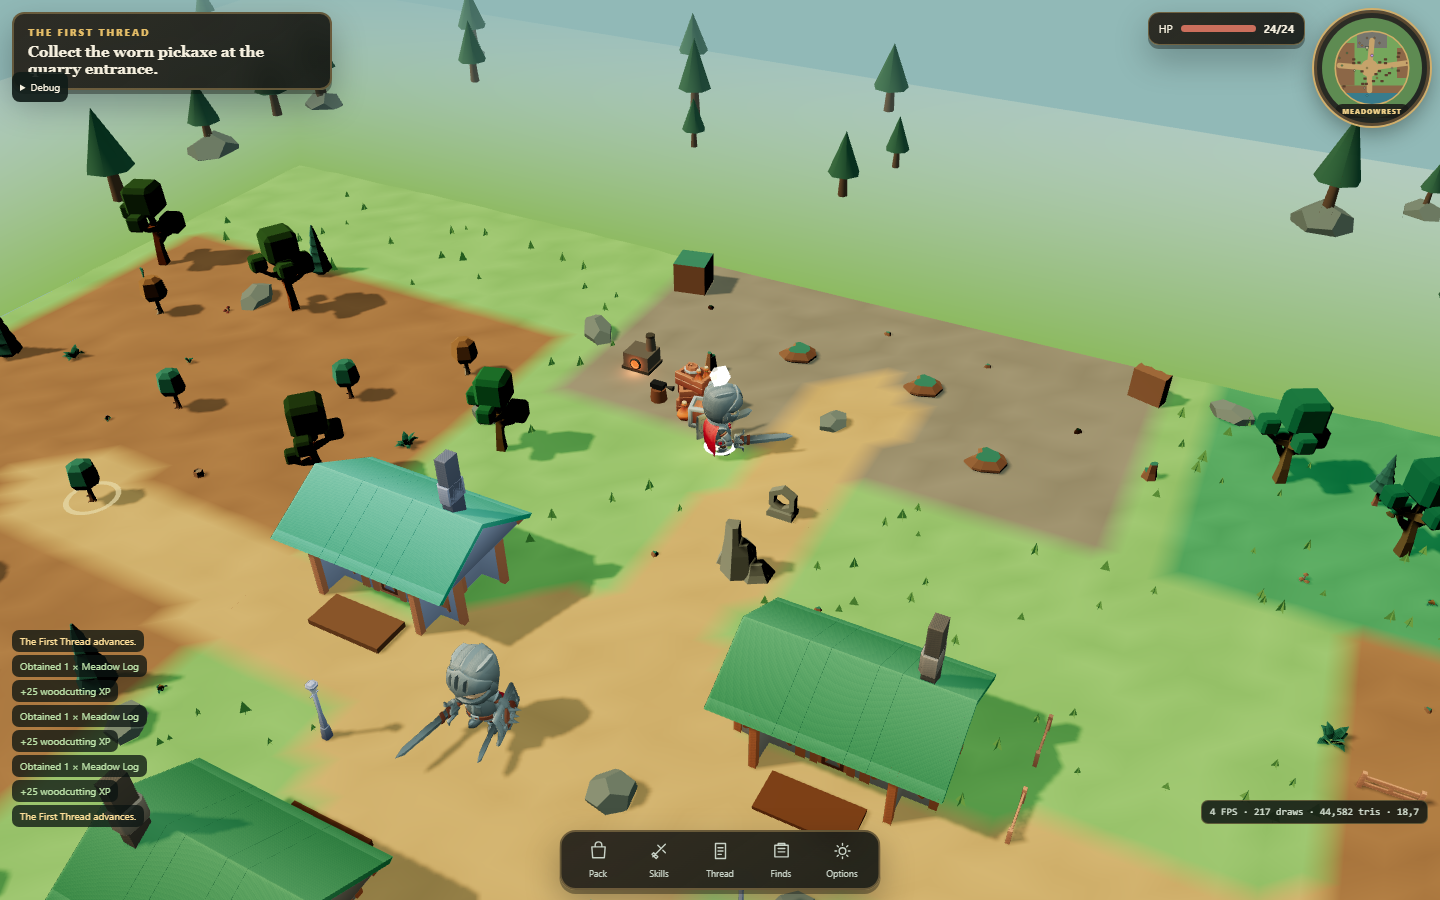
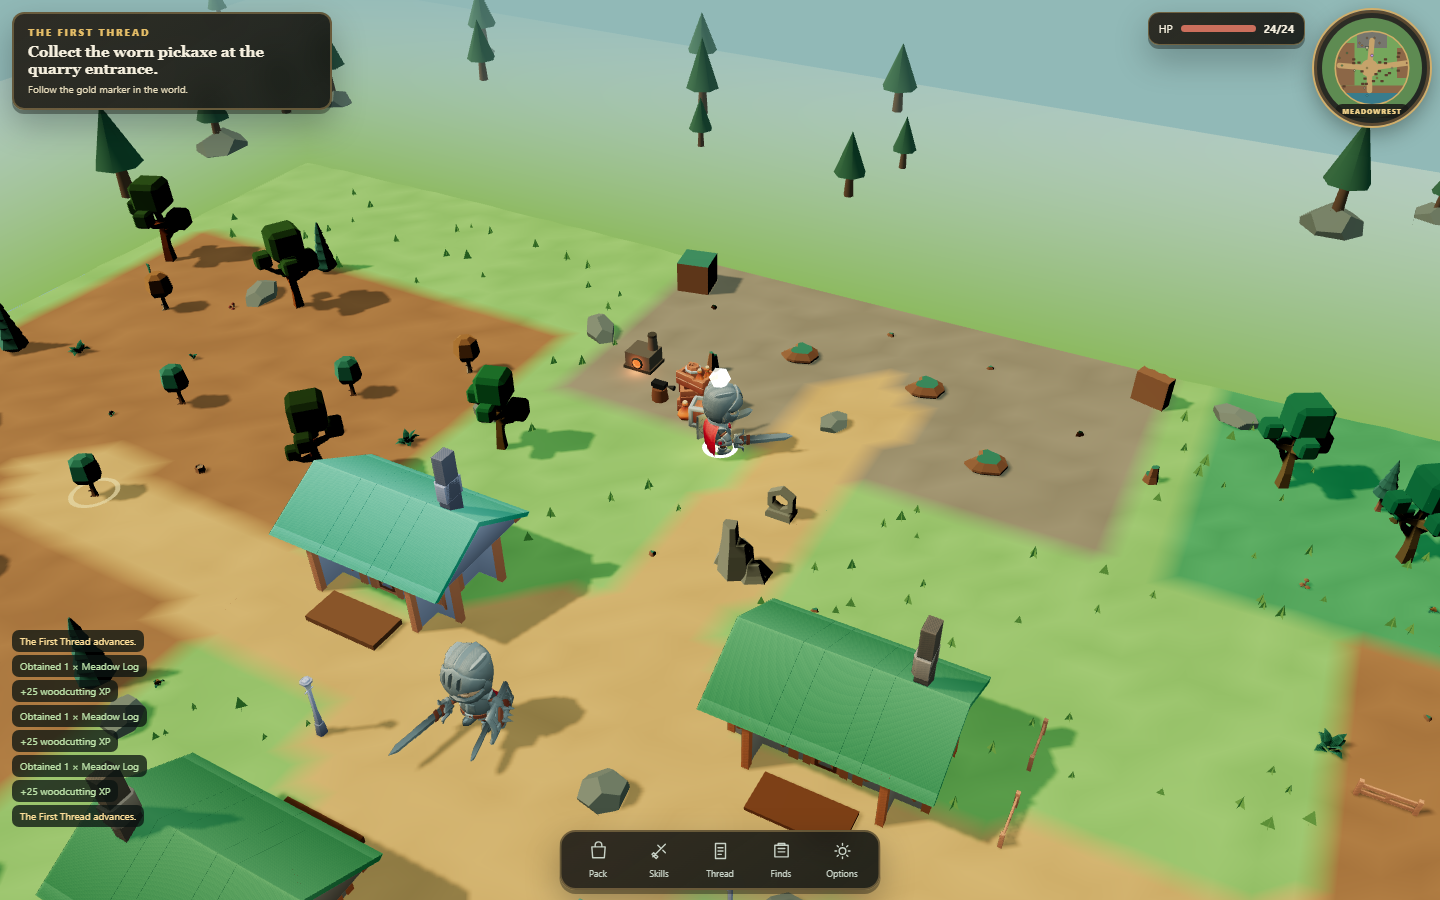
Guide every physical tutorial objective

diff --git a/apps/game/tests/tutorial-guidance.spec.ts b/apps/game/tests/tutorial-guidance.spec.ts
@@ -57,7 +57,7 @@ test.describe("Tutorial guidance — starter tool discoverability", () => {
     const isDesktop = testInfo.project.name === "desktop";
     const viewSuffix = isDesktop ? "desktop" : "landscape";
 
-    await page.goto("/?e2e=1&debug=1");
+    await page.goto("/?e2e=1");
     await page.getByRole("button", { name: "Enter Meadowrest" }).click();
     await expect(page.getByTestId("game-world")).toHaveAttribute("data-ready", "true", { timeout: 35_000 });
     await page.waitForTimeout(400);
@@ -77,20 +77,22 @@ test.describe("Tutorial guidance — starter tool discoverability", () => {
 
     await activate(page, "ground_worn_hatchet", /Open your pack and equip the worn hatchet/i);
 
-    // Step 3 (equip_hatchet, targetId: null — no single physical target).
-    // The beacon must correctly show nothing here rather than a stale or
-    // incorrect marker.
+    // Step 3 is a UI action rather than a world target. The beacon clears,
+    // while the objective itself provides a direct, working Pack action.
     mark = await beacon(page);
     expect(mark).toEqual({ visible: false, targetId: null });
+    await expect(page.locator(".objective")).toContainText(/Open Pack below/i);
 
-    await page.getByRole("button", { name: "Pack" }).click();
+    await page.getByRole("button", { name: "Open Pack" }).click();
     await page.locator("article").filter({ hasText: "Worn Hatchet" }).getByRole("button", { name: "Equip" }).click();
     await expect(page.getByText(/Chop three Meadow Logs/i)).toBeVisible();
     await page.getByRole("button", { name: "Close panel" }).click();
 
-    // Step 4 (gather_logs, targetId: null — any of three oak nodes qualify).
+    // Step 4 accepts any oak, but guidanceTargetId deliberately chooses one
+    // representative nearby oak so the player is never left without a lead.
     mark = await beacon(page);
-    expect(mark).toEqual({ visible: false, targetId: null });
+    expect(mark).toEqual({ visible: true, targetId: "oak_west_1" });
+    await expect(page.locator(".objective")).toContainText(/gold marker to the western oaks/i);
 
     await activate(page, "oak_west_1", /Chop three Meadow Logs|Collect the worn pickaxe/i);
     // meadowrest_oak always succeeds at actionDurationMs 2800 with a 5500ms
@@ -126,5 +128,6 @@ test.describe("Tutorial guidance — starter tool discoverability", () => {
     // Step 6 (equip_pickaxe, targetId: null again) — beacon correctly clears.
     mark = await beacon(page);
     expect(mark).toEqual({ visible: false, targetId: null });
+    await expect(page.getByRole("button", { name: "Open Pack" })).toBeVisible();
   });
 });

diff --git a/apps/game/src/world/GameWorld.tsx b/apps/game/src/world/GameWorld.tsx
@@ -391,9 +391,10 @@ export function GameWorld() {
         objectiveBeacon: () => {
           const save = useGameStore.getState().save;
           const step = save ? currentObjectiveStep(save, CONTENT) : null;
+          const targetId = step?.guidanceTargetId ?? step?.targetId ?? null;
           return {
             visible: objectiveBeaconGroup.visible,
-            targetId: step?.targetId ?? null,
+            targetId,
           };
         },
         equip: (itemId: string) => useGameStore.getState().equip(itemId),
@@ -526,12 +527,15 @@ export function GameWorld() {
         targetHalo.visible = false;
       }
       // Always-on guidance: highlight the CURRENT quest step's physical
-      // target, independent of anything the player has clicked. Steps
-      // without a single specific target (targetId: null, e.g. "gather 3
-      // logs from any tree") have nothing to beacon and are left alone.
+      // target, independent of anything the player has clicked. A quest may
+      // keep targetId null when any matching resource counts while supplying
+      // a representative guidanceTargetId solely for navigation. This also
+      // bridges semantic enemy IDs (used by quest events) to their physical
+      // world interactable IDs without changing quest-completion logic.
       const objectiveStep = save ? currentObjectiveStep(save, CONTENT) : null;
-      const objectiveTarget = objectiveStep?.targetId
-        ? zone.interactables.find((target) => target.id === objectiveStep.targetId)
+      const objectiveTargetId = objectiveStep?.guidanceTargetId ?? objectiveStep?.targetId;
+      const objectiveTarget = objectiveTargetId
+        ? zone.interactables.find((target) => target.id === objectiveTargetId)
         : undefined;
       if (objectiveTarget && save && targetAvailable(objectiveTarget, save)) {
         objectiveBeaconGroup.position.copy(world(objectiveTarget));

diff --git a/apps/game/src/components/Hud.tsx b/apps/game/src/components/Hud.tsx
@@ -35,6 +35,16 @@ export function Hud() {
   const activeProgress = activeEntry?.[1] ?? null;
   const activeQuestDef = activeQuestId ? CONTENT.quests[activeQuestId] : null;
   const activeStep = activeQuestDef && activeProgress ? activeQuestDef.steps[activeProgress.stepIndex] : null;
+  const guidanceTargetId = activeStep?.guidanceTargetId ?? activeStep?.targetId ?? null;
+  const hasWorldGuidance = guidanceTargetId !== null && Object.values(CONTENT.zones)
+    .some((zone) => zone.interactables.some((target) => target.id === guidanceTargetId));
+  const guidanceText = activeStep?.guidanceText
+    ?? (hasWorldGuidance ? "Follow the gold marker in the world." : null);
+  const guidancePanel = activeStep?.kind === "equip"
+    ? { id: "inventory" as const, label: "Open Pack" }
+    : activeStep?.kind === "attune"
+      ? { id: "skills" as const, label: "Open Skills" }
+      : null;
   const objectiveText = activeStep
     ? activeStep.kind === "attune"
       ? `${activeStep.objective} ${attunedSkills} of ${ATTUNEMENT_SKILL_COUNT} attuned.`
@@ -56,6 +66,10 @@ export function Hud() {
       <strong>{objectiveText}</strong>
       {activeStep && activeStep.kind !== "attune" && activeStep.count > 1 &&
         <small>{activeProgress?.stepProgress ?? 0} / {activeStep.count}</small>}
+      {guidanceText && <small className="guide-hint">{guidanceText}</small>}
+      {guidancePanel && <button className="objective-action" onClick={() => store.setPanel(guidancePanel.id)}>
+        {guidancePanel.label}
+      </button>}
     </section>
     <section className="vitals glass">
       <span>HP</span><div><i style={{ width: `${save.player.hp / save.player.maxHp * 100}%` }} /></div><b>{save.player.hp}/{save.player.maxHp}</b>

diff --git a/packages/content/src/content-validation.test.ts b/packages/content/src/content-validation.test.ts
@@ -61,6 +61,31 @@ describe("Everloom authored content", () => {
       }],
     }).steps[0]?.kind).toBe("produce");
   });
+
+  it("maps every authored guidance target to a real world interactable", () => {
+    const interactableIds = new Set(Object.values(CONTENT.zones)
+      .flatMap((zone) => zone.interactables.map((target) => target.id)));
+    const guidedSteps = Object.values(CONTENT.quests)
+      .flatMap((quest) => quest.steps)
+      .filter((step) => step.guidanceTargetId);
+
+    expect(guidedSteps.length).toBeGreaterThanOrEqual(8);
+    for (const step of guidedSteps) expect(interactableIds.has(step.guidanceTargetId!)).toBe(true);
+  });
+
+  it("gives every physical First Thread action an honest beacon target", () => {
+    const steps = CONTENT.quests.first_thread!.steps;
+    const targetFor = (stepId: string) => {
+      const step = steps.find((candidate) => candidate.id === stepId);
+      return step?.guidanceTargetId ?? step?.targetId ?? null;
+    };
+
+    expect(targetFor("gather_logs")).toBe("oak_west_1");
+    expect(targetFor("mine_ore")).toBe("copper_north_1");
+    expect(targetFor("catch_fish")).toBe("riverling_south");
+    expect(targetFor("cook_fish")).toBe("village_cooking_fire");
+    expect(targetFor("defeat_skeleton")).toBe("skeleton_east");
+  });
 });
 
 describe("The Verdant Loomstone chapter", () => {

diff --git a/apps/game/src/phase-two.css b/apps/game/src/phase-two.css
@@ -10,6 +10,30 @@
   border-color: rgba(207, 172, 103, .38);
 }
 
+.objective .guide-hint {
+  display: block;
+  margin-top: 6px;
+  color: #e8ddbd;
+  font-size: 10px;
+  line-height: 1.35;
+}
+
+.objective .objective-action {
+  margin-top: 7px;
+  padding: 5px 9px;
+  border: 1px solid #e4bd675c;
+  border-radius: 8px;
+  background: linear-gradient(#6f5935, #453922);
+  color: #fff0c2;
+  font-size: 10px;
+  font-weight: 800;
+}
+
+.objective .objective-action:hover {
+  border-color: #f0ce82;
+  background: linear-gradient(#80683e, #514328);
+}
+
 .vitals {
   right: max(135px, calc(env(safe-area-inset-right) + 123px));
   border-color: rgba(207, 172, 103, .42);
@@ -366,5 +390,10 @@
 
   .objective {
     width: min(310px, 38vw);
+  }
+
+  .objective .guide-hint {
+    font-size: 9px;
+    line-height: 1.25;
   }
 }

diff --git a/packages/content/src/index.ts b/packages/content/src/index.ts
@@ -104,6 +104,9 @@ export function buildValidatedContent(): ContentBundle {
       if (step.targetId && !allInteractables.has(step.targetId) && !enemies[step.targetId]) {
         errors.push(`Quest ${quest.id}/${step.id} references missing target ${step.targetId}`);
       }
+      if (step.guidanceTargetId && !allInteractables.has(step.guidanceTargetId)) {
+        errors.push(`Quest ${quest.id}/${step.id} references missing guidance target ${step.guidanceTargetId}`);
+      }
       if (step.kind === "pickup") {
         const target = step.targetId ? allInteractables.get(step.targetId) : undefined;
         if (!target || target.kind !== "ground_item" || target.itemId !== step.itemId) {

diff --git a/packages/core/src/types.ts b/packages/core/src/types.ts
@@ -130,6 +130,10 @@ export interface QuestStepDefinition {
   readonly kind: QuestStepKind;
   readonly objective: string;
   readonly targetId: string | null;
+  /** Optional physical world target used only for player guidance. */
+  readonly guidanceTargetId?: string | null;
+  /** Optional contextual help shown beneath the objective. */
+  readonly guidanceText?: string;
   readonly itemId: string | null;
   readonly count: number;
 }

diff --git a/packages/content/src/schemas.ts b/packages/content/src/schemas.ts
@@ -93,6 +93,8 @@ export const questSchema = z.object({
     kind: z.enum(["talk", "pickup", "equip", "gather", "cook", "produce", "defeat", "interact", "attune"]),
     objective: z.string().min(1),
     targetId: identifier.nullable(),
+    guidanceTargetId: identifier.nullable().optional(),
+    guidanceText: z.string().min(1).optional(),
     itemId: identifier.nullable(),
     count: positiveInteger,
   }).refine(
